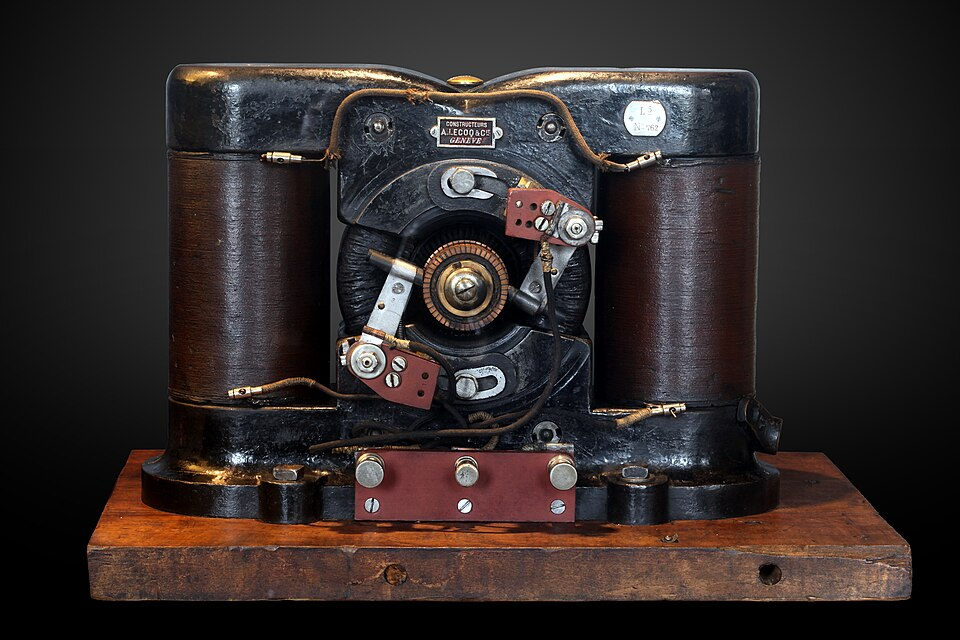
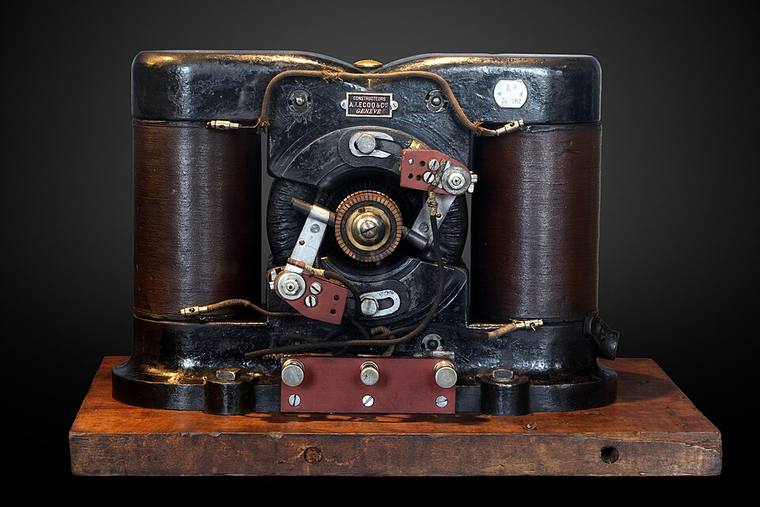
Update site (2026-11-01)

diff --git a/lecture-04/regularisation/index.html b/lecture-04/regularisation/index.html
@@ -18,7 +18,7 @@
 <label for=section-4c7af4fc87349505f63280ff89249753 class=flex><a href=/spm405-notes/lecture-08/>8. Unsupervised learning and course wrap-up</a>
 <img src=/spm405-notes/icons/chevron-right.svg class=book-icon alt=Expand></label><ul><li><a href=/spm405-notes/lecture-08/opening/>Opening</a></li><li><a href=/spm405-notes/lecture-08/principal-components-analysis/>Principal components analysis</a></li><li><a href=/spm405-notes/lecture-08/clustering/>Clustering</a></li><li><a href=/spm405-notes/lecture-08/course-wrap-up/>Course wrap-up</a></li></ul></li><li><a href=/spm405-notes/credits/>Credits</a></li></ul></nav><script>(function(){var e=document.querySelector("aside .book-menu-content");addEventListener("beforeunload",function(){localStorage.setItem("menu.scrollTop",e.scrollTop)}),e.scrollTop=localStorage.getItem("menu.scrollTop")})()</script></div></aside><div class=book-page><header class="book-header hidden"><div class="flex align-center justify-between"><label for=menu-control><img src=/spm405-notes/icons/menu.svg class=book-icon alt=Menu></label><h3>Regularisation</h3><label for=toc-control><img src=/spm405-notes/icons/toc.svg class=book-icon alt="Table of Contents"></label></div><aside class=hidden><nav id=TableOfContents><ul><li><a href=#slide-13>Too many inputs: an electronic nose</a></li><li><a href=#slide-14>Choosing inputs: subset selection</a></li><li><a href=#slide-15>Ridge regression</a></li><li><a href=#slide-16>Ridge: the coefficient path</a><ul><li></li></ul></li><li><a href=#slide-17>The lasso</a></li><li><a href=#slide-18>Lasso: the coefficient path</a></li><li><a href=#slide-19>Why does the lasso give zeros?</a><ul><li></li></ul></li><li><a href=#slide-20>Choosing \(\lambda\): cross-validation</a></li><li><a href=#slide-21>Electronic nose: the result</a></li><li><a href=#slide-22>Ridge or lasso?</a></li><li><a href=#slide-23>Things to watch</a></li><li><a href=#slide-24>Summary</a></li><li><a href=#slide-25>Before next class</a></li></ul></nav></aside></header><div class=panel-bar role=toolbar aria-label="Page layout"><button type=button class=panel-button id=panel-left-button></button>
 <button type=button class=panel-button id=panel-right-button></button>
-<button type=button class=panel-button id=panel-full-button></button></div><button type=button class=panel-exit-button id=panel-exit-button>Exit full width</button><article class="markdown book-article"><h1 id=regularisation>Regularisation<a class=anchor href=#regularisation>#</a></h1><h2 id=slide-13>Too many inputs: an electronic nose<a class=anchor href=#slide-13>#</a></h2><figure class=photo><img src=/spm405-notes/photos/gas_sensor.png alt="The principle of a sensor array: each sensor reacts a little differently, giving a pattern." width=560 loading=lazy><figcaption>The principle of a sensor array: each sensor reacts a little differently, giving a pattern.
+<button type=button class=panel-button id=panel-full-button></button></div><button type=button class=panel-exit-button id=panel-exit-button>Exit full width</button><article class="markdown book-article"><h1 id=regularisation>Regularisation<a class=anchor href=#regularisation>#</a></h1><h2 id=slide-13>Too many inputs: an electronic nose<a class=anchor href=#slide-13>#</a></h2><figure class=photo><img src=/spm405-notes/photos/gas_sensor.jpg alt="The principle of a sensor array: each sensor reacts a little differently, giving a pattern." width=560 loading=lazy><figcaption>The principle of a sensor array: each sensor reacts a little differently, giving a pattern.
 <span class=credit>Photo: Nanomaterials21, <a href=https://commons.wikimedia.org/wiki/File:Colorimetric_Sensor_Array_Principles.png target=_blank rel=noopener>Wikimedia Commons</a>, <a href=https://creativecommons.org/licenses/by-sa/4.0 target=_blank rel=noopener>CC BY-SA 4.0</a></span></figcaption></figure><figure class=diagram><img src=/spm405-notes/diagrams/electronic_nose.svg alt="An electronic nose: eight gas sensors give an 8-number smell pattern for each milk sample." width=760 loading=lazy><figcaption>An electronic nose: eight gas sensors give an 8-number smell pattern for each milk sample.</figcaption></figure><blockquote class=book-hint><p>A gas-sensor array (“electronic nose”) smells a milk sample with 40 channels</p></blockquote><p>Each channel is a metal-oxide or polymer sensor that responds to a range of volatile compounds. Adulterants change the smell pattern.
 Milk adulteration was a problem named in the survey.</p><blockquote class=book-hint><p>Goal: predict the adulterant concentration (%). Data: only 50 samples. Only 5 channels really matter</p></blockquote><p>In a real array we would not know which channels matter; finding them is part of the task.</p><blockquote class=book-hint><p>Least squares, 41 coefficients: training MSE 0.22; test MSE 4.61. Guessing the average: 8.30</p></blockquote><p>41 coefficients (40 channels plus intercept) from 50 samples. The training error (0.22) is far below the noise variance (1.0): a sure sign
 of overfitting (Lecture 1). On new samples the error is 4.61.</p><blockquote class=book-hint><p>Almost as many coefficients as samples: least squares fits the noise</p></blockquote><p>With \(p \ge n\) least squares has no unique answer at all.</p><blockquote class="book-hint info"><p><strong>Symbols</strong></p><table><thead><tr><th></th><th></th></tr></thead><tbody><tr><td>\(p\)</td><td>Number of inputs (40 channels).</td></tr></tbody></table></blockquote><h2 id=slide-14>Choosing inputs: subset selection<a class=anchor href=#slide-14>#</a></h2><blockquote class=book-hint><p>Best subset: try every combination of inputs, keep the best by CV. \(2^{40} \approx 1.1 \times 10^{12}\) models. Far too many</p></blockquote><p>Each channel is either in or out: \(2^{40} = 1\,099\,511\,627\,776\) combinations.</p><blockquote class=book-hint><p>Forward stepwise: start with no inputs; add the one that helps most; repeat. About 800 fits</p></blockquote><p>Step 1 tries 40 models, step 2 tries 39, and so on: \(40 + 39 + \dots + 1 = 820\). Fast, but it can miss the best combination (ISLP 6.1.2).</p><blockquote class=book-hint><p>A better idea: keep all the inputs, but shrink their coefficients towards zero. This is regularisation. Shrink: make smaller in size, towards 0</p></blockquote><h2 id=slide-15>Ridge regression<a class=anchor href=#slide-15>#</a></h2><blockquote class=book-hint><p>Minimise \(\mathrm{RSS} + \lambda\sum_j\beta_j^2\): fit the data + keep coefficients small</p></blockquote><p>The first term rewards fitting the data; the second penalises large coefficients. \(\lambda\) sets the balance.</p><blockquote class=book-hint><p>\(\lambda = 0\): least squares. \(\lambda\) large: all \(\beta_j\) close to 0. The intercept \(\beta_0\) is not shrunk</p></blockquote><p>Between the two extremes lies a range of models from flexible to rigid, controlled by one number.</p><p>The sum starts at \(j = 1\): shrinking the intercept would only shift all predictions towards zero, which is never wanted.</p><blockquote class=book-hint><p>Standardise first: the penalty treats all coefficients alike, so all inputs must be on the same scale</p></blockquote><p>A coefficient's size depends on the units of its input (per volt or per millivolt). Standardising makes the penalty fair.</p><blockquote class=book-hint><p>Why it helps: a little bias buys a large drop in variance (Lecture 1)</p></blockquote><p>Shrunk coefficients change less from one training set to another.</p><blockquote class="book-hint info"><p><strong>Symbols</strong></p><table><thead><tr><th></th><th></th></tr></thead><tbody><tr><td>\(\lambda\)</td><td>Tuning parameter (\(\ge 0\)); scikit-learn calls it <code>alpha</code>.</td></tr><tr><td>\(\beta_j^2\)</td><td>Square of coefficient \(j\).</td></tr></tbody></table></blockquote><details><summary>Beyond the slide: the ridge formula</summary><div class=markdown-inner><p>\(\hat\bb_{\text{ridge}} = (\bX\T\bX + \lambda\mathbf I)^{-1}\bX\T\by\) (ESL 3.4.1). Adding \(\lambda\) to the diagonal makes the matrix invertible

diff --git a/lecture-07/neural-networks/index.html b/lecture-07/neural-networks/index.html
@@ -18,7 +18,7 @@
 <label for=section-4c7af4fc87349505f63280ff89249753 class=flex><a href=/spm405-notes/lecture-08/>8. Unsupervised learning and course wrap-up</a>
 <img src=/spm405-notes/icons/chevron-right.svg class=book-icon alt=Expand></label><ul><li><a href=/spm405-notes/lecture-08/opening/>Opening</a></li><li><a href=/spm405-notes/lecture-08/principal-components-analysis/>Principal components analysis</a></li><li><a href=/spm405-notes/lecture-08/clustering/>Clustering</a></li><li><a href=/spm405-notes/lecture-08/course-wrap-up/>Course wrap-up</a></li></ul></li><li><a href=/spm405-notes/credits/>Credits</a></li></ul></nav><script>(function(){var e=document.querySelector("aside .book-menu-content");addEventListener("beforeunload",function(){localStorage.setItem("menu.scrollTop",e.scrollTop)}),e.scrollTop=localStorage.getItem("menu.scrollTop")})()</script></div></aside><div class=book-page><header class="book-header hidden"><div class="flex align-center justify-between"><label for=menu-control><img src=/spm405-notes/icons/menu.svg class=book-icon alt=Menu></label><h3>Neural networks</h3><label for=toc-control><img src=/spm405-notes/icons/toc.svg class=book-icon alt="Table of Contents"></label></div><aside class=hidden><nav id=TableOfContents><ul><li><a href=#slide-5>A network with one hidden layer</a><ul><li></li></ul></li><li><a href=#slide-6>Activation functions</a></li><li><a href=#slide-7>Many layers</a><ul><li></li></ul></li><li><a href=#slide-8>Fitting a network</a></li><li><a href=#slide-9>Backpropagation in words</a></li><li><a href=#slide-10>Six-sensor machines again</a></li><li><a href=#slide-11>Overfitting as training goes on</a></li><li><a href=#slide-12>Regularising a network</a></li></ul></nav></aside></header><div class=panel-bar role=toolbar aria-label="Page layout"><button type=button class=panel-button id=panel-left-button></button>
 <button type=button class=panel-button id=panel-right-button></button>
-<button type=button class=panel-button id=panel-full-button></button></div><button type=button class=panel-exit-button id=panel-exit-button>Exit full width</button><article class="markdown book-article"><h1 id=neural-networks>Neural networks<a class=anchor href=#neural-networks>#</a></h1><h2 id=slide-5>A network with one hidden layer<a class=anchor href=#slide-5>#</a></h2><figure class=photo><img src=/spm405-notes/photos/perceptron.png alt="The Mark I Perceptron (1958): the first neural network, built in hardware." width=520 loading=lazy><figcaption>The Mark I Perceptron (1958): the first neural network, built in hardware.
+<button type=button class=panel-button id=panel-full-button></button></div><button type=button class=panel-exit-button id=panel-exit-button>Exit full width</button><article class="markdown book-article"><h1 id=neural-networks>Neural networks<a class=anchor href=#neural-networks>#</a></h1><h2 id=slide-5>A network with one hidden layer<a class=anchor href=#slide-5>#</a></h2><figure class=photo><img src=/spm405-notes/photos/perceptron.jpg alt="The Mark I Perceptron (1958): the first neural network, built in hardware." width=520 loading=lazy><figcaption>The Mark I Perceptron (1958): the first neural network, built in hardware.
 <span class=credit>Photo: John C. Hay, Albert E. Murray, <a href=https://commons.wikimedia.org/wiki/File:Mark_I_Perceptron,_Figure_2_of_operator%27s_manual.png target=_blank rel=noopener>Wikimedia Commons</a>, Public domain</span></figcaption></figure><figure class=diagram><img src=/spm405-notes/diagrams/neuron.svg alt="One neuron: weight the inputs, add them, pass the result through an activation." width=800 loading=lazy><figcaption>One neuron: weight the inputs, add them, pass the result through an activation.</figcaption></figure><figure class=slide-fig><img src=/spm405-notes/fig/lecture-07/l07-a61bf43e57b3.svg width=340 alt="Figure: A network with one hidden layer" loading=lazy></figure><blockquote class=book-hint><p>Diagram: inputs \(X_1, \dots, X_4\); hidden layer \(A_1, \dots, A_5\); output \(f\)</p></blockquote><p>Every input connects to every hidden unit, and every hidden unit to the output: a fully connected (dense) network.</p><blockquote class=book-hint><p>Each hidden unit \(k\): \(A_k = g(w_{k0} + \sum_jw_{kj}X_j)\): a linear model</p></blockquote><p>Each hidden unit computes its own linear combination of the inputs, then passes it through \(g\). The weights \(w\) are learned.</p><blockquote class=book-hint><p>The output adds them up: \(f(X) = \beta_0 + \sum_k\beta_kA_k\)</p></blockquote><p>The output is a linear model in the hidden units (ISLP equation 10.1). For classification, a sigmoid is applied to \(f\).</p><blockquote class=book-hint><p>\(g\) is a non-linear activation function. Hidden: neither input nor output; we never observe it</p></blockquote><blockquote class="book-hint info"><p><strong>Symbols</strong></p><table><thead><tr><th></th><th></th></tr></thead><tbody><tr><td>\(X_j\)</td><td>Input \(j\).</td></tr><tr><td>\(A_k\)</td><td>Activation (output) of hidden unit \(k\).</td></tr><tr><td>\(w_{k0}, w_{kj}\)</td><td>Bias and weights of hidden unit \(k\).</td></tr><tr><td>\(g\)</td><td>Activation function.</td></tr><tr><td>\(\beta_0, \beta_k\)</td><td>Bias and weights of the output.</td></tr></tbody></table></blockquote><h4 id=example-a-forward-pass-by-hand>Example: a forward pass by hand<a class=anchor href=#example-a-forward-pass-by-hand>#</a></h4><div class=example id=l7-forward><div class="example__question markdown-inner"><p>A network has 2 inputs, 2 hidden ReLU units and one linear output:
 \(h_1 = \mathrm{ReLU}(x_1 + 2x_2)\), \(h_2 = \mathrm{ReLU}(-x_1 + 0.5x_2 + 1)\), \(\hat y = 1.5h_1 - 2h_2 + 0.5\).
 Compute \(\hat y\) for \(\mathbf x = (0.5, -1)\).</p></div><div class=example__solution data-solution data-open=false><div class=example__reveal role=button tabindex=0 aria-expanded=false aria-controls=solution-l7-forward><span class=example__reveal-icon aria-hidden=true></span>
